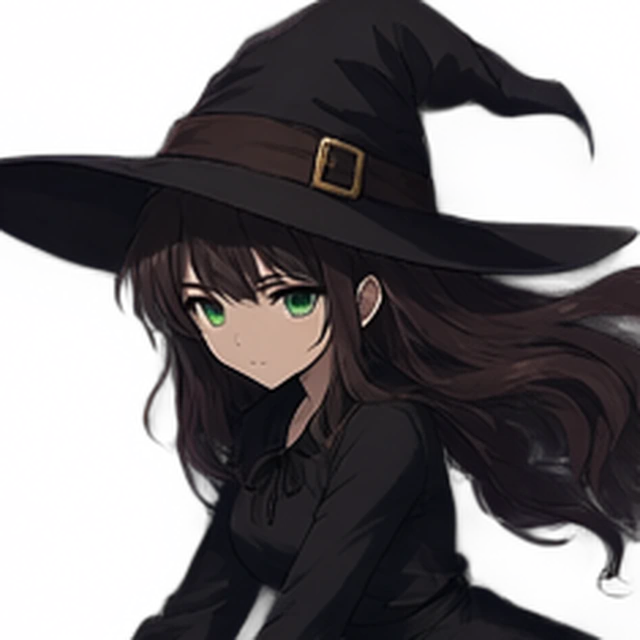
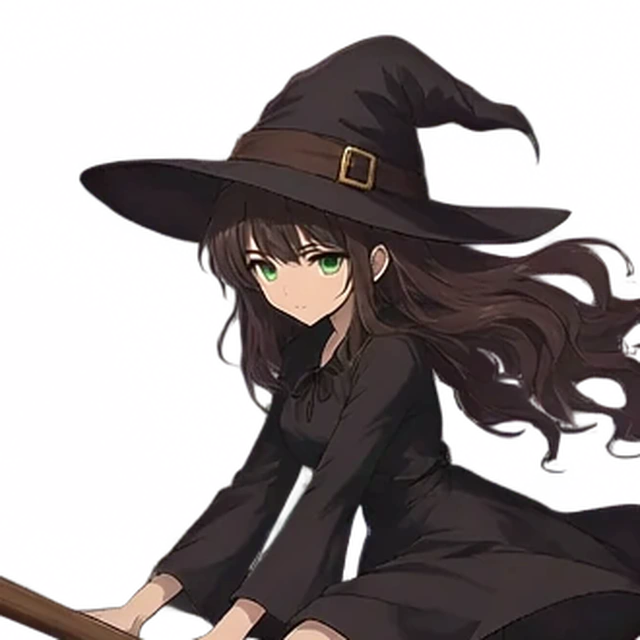
Regenerate Kiki illustrations as Qwen-only light set

diff --git a/resources/js/Components/Assistant/AssistantPanel.vue b/resources/js/Components/Assistant/AssistantPanel.vue
@@ -214,9 +214,9 @@ onBeforeUnmount(() => window.removeEventListener('keydown', onKeydown));
                 <div ref="scroller" class="flex-1 overflow-y-auto px-4 py-4">
                     <div v-if="!hasMessages && !loading" class="flex h-full flex-col items-center justify-center px-2 text-center">
                         <img
-                            src="/images/kiki/kiki-assistant.webp"
+                            src="/images/kiki/kiki-seated.webp"
                             alt="Кики — ассистент inteli dev"
-                            class="pointer-events-none h-[190px] w-full max-w-[330px] select-none object-contain"
+                            class="pointer-events-none h-[210px] w-full max-w-[330px] select-none object-contain"
                         />
                         <h2 class="mt-3 font-display text-[22px] font-medium tracking-[-0.03em] text-ink">Чем помочь?</h2>
                         <p class="mt-2 max-w-[300px] text-[13px] leading-relaxed text-muted">

diff --git a/resources/js/Pages/Admin/Invoices/Index.vue b/resources/js/Pages/Admin/Invoices/Index.vue
@@ -40,7 +40,7 @@ function setStatus(value) {
             <StatCard label="Оплачено за месяц" :value="formatMoney(summary?.paid_month ?? 0)" hint="подтверждённые поступления" :icon="BanknotesIcon" tone="sage" mono />
             <StatCard label="Всего счетов" :value="invoices.total" hint="во всех статусах" tone="violet" />
             <div class="hidden overflow-hidden rounded-[22px] border border-line/70 bg-white/35 lg:block">
-                <img src="/images/kiki/kiki-invoices.webp" alt="Кики и счета" class="pointer-events-none h-full w-full select-none object-contain object-right-bottom" />
+                <img src="/images/kiki/kiki-flight-badge.webp" alt="Кики" class="pointer-events-none h-full w-full select-none object-cover object-center" />
             </div>
         </div>
 

diff --git a/resources/js/Pages/Admin/Dashboard.vue b/resources/js/Pages/Admin/Dashboard.vue
@@ -105,7 +105,7 @@ const pendingTotal = computed(() => (props.pendingInvoices ?? []).reduce((sum, i
                 </template>
 
                 <div v-if="!focusTasks.length" class="p-2">
-                    <EmptyState compact variant="success" title="День свободен" text="Новые заявки и задачи появятся здесь. Можно начать с шаблона.">
+                    <EmptyState compact variant="flight" title="День свободен" text="Новые заявки и задачи появятся здесь. Можно начать с шаблона.">
                         <Link :href="route('admin.task-templates.index')">
                             <Button variant="secondary" size="sm">Открыть шаблоны</Button>
                         </Link>

diff --git a/resources/js/Pages/Admin/TaskTemplates/Index.vue b/resources/js/Pages/Admin/TaskTemplates/Index.vue
@@ -69,9 +69,9 @@ function toggle(template) {
                 </div>
             </div>
             <img
-                src="/images/kiki/kiki-templates.webp"
-                alt="Кики собирает шаблоны задач"
-                class="pointer-events-none hidden h-[180px] w-full select-none object-contain object-right lg:block"
+                src="/images/kiki/kiki-seated.webp"
+                alt="Кики"
+                class="pointer-events-none hidden h-[200px] w-full select-none object-contain object-right lg:block"
             />
         </section>
 

diff --git a/resources/js/Components/Kiki/KikiAvatar.vue b/resources/js/Components/Kiki/KikiAvatar.vue
@@ -11,10 +11,10 @@ const props = defineProps({
 const sources = {
     avatar: '/images/kiki/kiki-flight-avatar.webp',
     hero: '/images/kiki/kiki-flight-portrait.webp',
-    empty: '/images/kiki/kiki-empty.webp',
+    empty: '/images/kiki/kiki-seated.webp',
     thinking: '/images/kiki/kiki-thinking.webp',
-    success: '/images/kiki/kiki-success-badge.webp',
     flight: '/images/kiki/kiki-flight-badge.webp',
+    seated: '/images/kiki/kiki-seated.webp',
     classic: '/images/kiki/kiki-avatar.webp',
 };
 

diff --git a/docs/agents/kiki-assets.md b/docs/agents/kiki-assets.md
@@ -4,62 +4,53 @@
 
 Кики — аниме-ведьма с сайта `inteli-dev.ru`: огромная чёрная остроконечная шляпа с широкими полями, коричневая лента и латунная пряжка, длинные волнистые тёмно-каштановые волосы, зелёные глаза, чёрное платье с высоким воротом и бантом, чёрные шнурованные ботинки. Лицо и одежда не меняются между кадрами.
 
-Исходный референс — `kiki_master.png` (полный рост, прозрачный фон) из проекта ComfyUI. Он же использован как `<image2>` в i2i.
+Исходный референс — `kiki_master.png` (полный рост, прозрачный фон) из проекта ComfyUI. Он же используется как identity-референс в i2i.
 
 ## Как сгенерировано
 
 - ComfyUI, Qwen Image 2.1 Image Edit, i2i.
 - Workflow: `/home/aigen31/Work/ComfyUI/user/default/workflows/image_qwen_image_2_1_image_edit.json`; рабочие копии — `storage/app/kiki/*-workflow.json`.
-- `<image1>` — поза/композиция-референс (полёт, levitation, nouveau и т. п.), `<image2>` — `kiki_master.png` для идентичности.
+- `<image1>` — изображение, которое редактируется; `<image2>` — identity-кроп или плоский цветовой референс. Для релайта и предметных правок второй референс — сознательно **не персонаж**, иначе Qwen дублирует Кики.
 - Параметры: steps 30, cfg 1, euler/simple, seed индивидуальный, prompt enhancer off.
-- Результат Qwen сохраняет прозрачный фон (alpha); для веба дополнительно чистится/кадрируется Pillow (GrabCut для сложных фонов, кроп для badge/avatar).
+- Промпты сохраняются в `storage/app/kiki/*-workflow.json` (`459.prompt`).
 
-Промпты сохраняются в `storage/app/kiki/*-workflow.json` (`459.prompt`). Они явно перечисляют шляпу, ленту, пряжку, волосы, глаза, платье и ботинки, просят не менять лицо/одежду и оставить левую часть холста пустой.
+**Важно:** финальные иллюстрации — только растровые рендеры Qwen. Векторные карточки, монеты, чат-баблы и конфетти не рисуются кодом. Допустима только постобработка растра: кроп, alpha-cutout, выравнивание света.
 
-Для сцен-композиций (`templates`, `invoices`, `assistant`, `success`) персонаж вырезан/собран из i2i-рендера, а карточки-реквизит и конфетти нарисованы кодом в токенах дизайн-системы. Это не «генерация фона», а вёрстка сцены: лицо и одежда остаются из Qwen, свет и палитра — из макета. Поэтому такие файлы прозрачные и ложатся на бумажный градиент без прямоугольной подложки.
-
-## Новый набор
+## Набор
 
 | Файл | Формат | Где используется |
 |---|---|---|
-| `kiki-flight.webp` | 1280×704, RGBA | вход, правая панель (полный полёт) |
-| `kiki-flight-portrait.webp` | 768×1024, RGBA | вертикальный герой, логин/промо |
-| `kiki-flight-hero.webp` | 900×620, RGBA | герой дашборда админа/клиента |
-| `kiki-flight-avatar.webp` | 640×640, RGBA | аватар Кики в панели/сайдбаре |
-| `kiki-flight-badge.webp` | 640×640, RGBA | empty states, компактные подсказки |
-| `kiki-standing.webp` | 271×820, RGBA | исходник для сцен: стоит, руки сложены |
-| `kiki-templates.webp` | 1200×900, RGBA | шапка «Шаблоны задач» |
-| `kiki-invoices.webp` | 1200×900, RGBA | сводка «Счета» |
-| `kiki-assistant.webp` | 1100×850, RGBA | приветствие в панели Кики |
-| `kiki-success.webp` | 1200×900, RGBA | успех/пустое состояние (сцена) |
-| `kiki-success-badge.webp` | 640×640, RGBA | компактный success в empty state |
+| `kiki-flight.webp` | 1280×704, RGBA | полный полёт, источник кропов |
+| `kiki-flight-portrait.webp` | 768×1024, RGBA | вход, правая панель |
+| `kiki-flight-hero.webp` | 900×620, RGBA | hero админ-дашборда |
+| `kiki-flight-avatar.webp` | 640×640, RGBA | аватар в панели/сайдбаре; шляпа целиком |
+| `kiki-flight-badge.webp` | 640×640, RGBA | empty states; шляпа целиком |
+| `kiki-seated.webp` | 992×1248, RGBA | шаблоны задач, приветствие ассистента, empty |
 | `kiki-desk.webp` | 1152×1010, RGB | клиентский дашборд, framed-карточка «за работой» |
-| `kiki-hero.webp` | 1024×576 | старый спокойный кадр (резерв) |
-| `kiki-empty.webp` | 640×480 | старый empty-кадр (резерв) |
-| `kiki-thinking.webp` | 384×512 | размышление |
-| `kiki-avatar.webp` | 640×640 | классический аватар (резерв) |
+| `kiki-standing.webp` | 544×1632, RGBA | резерв: стоячая поза в светлой теме |
+| `kiki-hero.webp` | 1024×576, RGBA | старый спокойный кадр (резерв) |
+| `kiki-empty.webp` | 640×480, RGBA | старый empty-кадр (резерв) |
+| `kiki-thinking.webp` | 384×512, RGBA | размышление |
+| `kiki-avatar.webp` | 640×640, RGBA | классический аватар (резерв) |
 
-Все файлы — в `public/images/kiki/`. Старые ассеты не удалены, чтобы можно было откатиться.
+Все файлы — в `public/images/kiki/`.
 
-## Правила использования
+## Свет и кадр
 
-- Не растягивать, не перекрашивать, не добавлять текст внутрь изображения.
-- Не ставить лицо вплотную к краю контейнера: у flight-кадра есть хвост метлы и развевающиеся волосы.
-- Для маленьких размеров (≤120px) использовать `flight-avatar` или `flight-badge`, не полный 16:9.
-- На светлом фоне использовать прозрачные WebP; не класть на тёмную подложку.
-- Композиция: персонаж справа, левая треть пустая под заголовок/кнопки.
+- Свет — мягкий тёплый дневной, бумажный фон, лавандовое свечение и персиковый акцент; без ночной темноты.
+- Полёт пересвечен отдельным i2i-проходом: убрана ночная подложка, подняты тени, добавлен тёплый заполняющий свет.
+- Шляпа всегда входит в кадр целиком, с запасом над кончиком; для аватара — тоже (не «face crop» без шляпы).
+- Композиция: персонаж справа, левая часть пустая под заголовок/кнопки.
+- Прозрачный фон; не растягивать, не перекрашивать, не добавлять текст поверх персонажа.
 
 ## Код
 
-- `resources/js/Components/Kiki/KikiAvatar.vue` — варианты `avatar`, `hero`, `flight`, `empty`, `thinking`, `classic`.
+- `resources/js/Components/Kiki/KikiAvatar.vue` — варианты `avatar`, `hero`, `flight`, `empty`, `thinking`, `seated`, `classic`.
 - `resources/js/Pages/Auth/Login.vue` — `kiki-flight-portrait.webp`.
-- `resources/js/Pages/Admin/Dashboard.vue` — `kiki-flight-hero.webp`; empty state — `kiki-success-badge.webp`.
-- `resources/js/Pages/Client/Dashboard.vue` — `kiki-desk.webp` в рамке с тенью.
-- `resources/js/Pages/Admin/TaskTemplates/Index.vue` — `kiki-templates.webp`.
-- `resources/js/Pages/Admin/Invoices/Index.vue` — `kiki-invoices.webp`.
-- `resources/js/Components/Assistant/AssistantPanel.vue` — `kiki-assistant.webp` в приветствии, `avatar` в шапке.
-- `EmptyState.vue` + `variant="flight"` — `kiki-flight-badge.webp`.
-- `AppShell.vue` — `avatar` (flight face).
-- `kiki-desk.webp` — сцена «за работой» на клиентском дашборде; обрезана по столу, чтобы не показывать обувь.
+- `resources/js/Pages/Admin/Dashboard.vue` — `kiki-flight-hero.webp`; empty — `flight` badge.
+- `resources/js/Pages/Admin/TaskTemplates/Index.vue` — `kiki-seated.webp`.
+- `resources/js/Pages/Admin/Invoices/Index.vue` — `kiki-flight-portrait.webp`.
+- `resources/js/Pages/Client/Dashboard.vue` — `kiki-desk.webp` в рамке.
+- `resources/js/Components/Assistant/AssistantPanel.vue` — `kiki-seated.webp` в приветствии, `avatar` в шапке.
 
 Дизайн-токены и правила — [.superdesign/design-system.md](../../.superdesign/design-system.md).

diff --git a/.superdesign/design-system.md b/.superdesign/design-system.md
@@ -93,8 +93,8 @@ Status pills: translucent tint + colored text + 6px dot (see `Badge.vue`). No he
 ## 6. Kiki
 
 - Canon: oversized black pointed hat with brown band/brass buckle, long wavy dark chestnut hair, green eyes, black high-neck dress with bow, black lace-up boots.
-- Assets: `kiki-flight.webp` (16:9 flight, transparent), `kiki-flight-portrait.webp` (3:4), `kiki-flight-hero.webp` (dashboard 900×620), `kiki-flight-avatar.webp` (1:1), `kiki-flight-badge.webp` (1:1 for small empty states), scene set `kiki-standing`, `kiki-templates`, `kiki-invoices`, `kiki-assistant`, `kiki-success`, `kiki-success-badge`; legacy `kiki-hero.webp`, `kiki-empty.webp`, `kiki-avatar.webp`, `kiki-thinking.webp`.
-- Use: flight portrait on login, flight hero on dashboards, standing scenes in templates/invoices/assistant, badge/avatar in empty states; do not stretch, do not recolor, do not add text inside image.
+- Assets: `kiki-flight.webp` (16:9), `kiki-flight-portrait.webp` (3:4), `kiki-flight-hero.webp` (900×620), `kiki-flight-avatar.webp` (1:1, full hat), `kiki-flight-badge.webp` (1:1), `kiki-seated.webp` (3:4), `kiki-desk.webp` (framed work scene), `kiki-standing.webp` (reserve); legacy `kiki-hero.webp`, `kiki-empty.webp`, `kiki-avatar.webp`, `kiki-thinking.webp`.
+- Use: flight portrait on login, flight hero on dashboards, seated render in templates/assistant, desk scene on client dashboard, badge/avatar in empty states; images are Qwen raster only — no CSS/vector mascot props. Do not stretch, recolor or add text inside the image.
 - Keep face/clothes consistent; new poses are generated by i2i from `kiki_master.png` in ComfyUI Qwen Image 2.1 (see [docs/agents/kiki-assets.md](../docs/agents/kiki-assets.md)).
 
 ## 7. Fidelity constraints

diff --git a/docs/agents/frontend.md b/docs/agents/frontend.md
@@ -44,7 +44,7 @@
 
 - `CustomFieldsForm` / `CustomFieldsView` / `CustomFieldInput` — единый рендер типов; не пишите отдельные поля под каждый тип.
 - `AssistantPanel` — глобальная панель (Teleport), открывается из сайдбара, `⌘K` или мобильной кнопки. Состояние — `useAssistant`.
-- `KikiAvatar` — варианты `avatar`, `hero`, `flight`, `empty`, `thinking`, `success`, `classic`; сценовые ассеты подключаются напрямую (`kiki-templates`, `kiki-invoices`, `kiki-assistant`). Не рисуйте маскота заново CSS-ом. Новый набор и правила — [kiki-assets.md](kiki-assets.md).
+- `KikiAvatar` — варианты `avatar`, `hero`, `flight`, `empty`, `thinking`, `seated`, `classic`; остальные иллюстрации подключаются напрямую (`kiki-seated`, `kiki-flight-portrait`, `kiki-desk`). Не рисуйте маскота и реквизит заново CSS/вектором. Новый набор и правила — [kiki-assets.md](kiki-assets.md).
 
 ## Сборка
 
